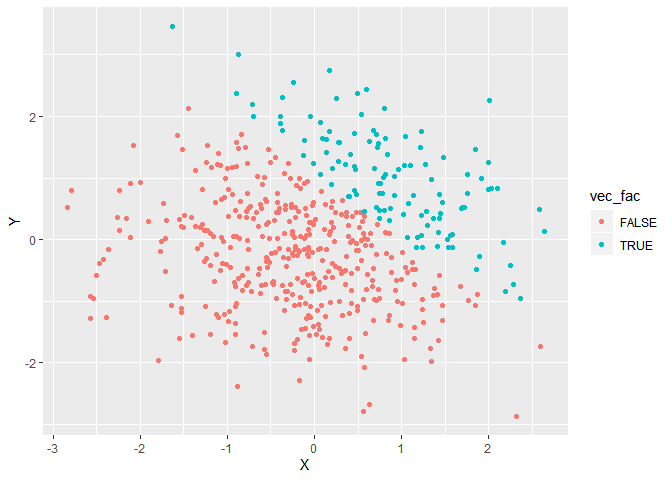
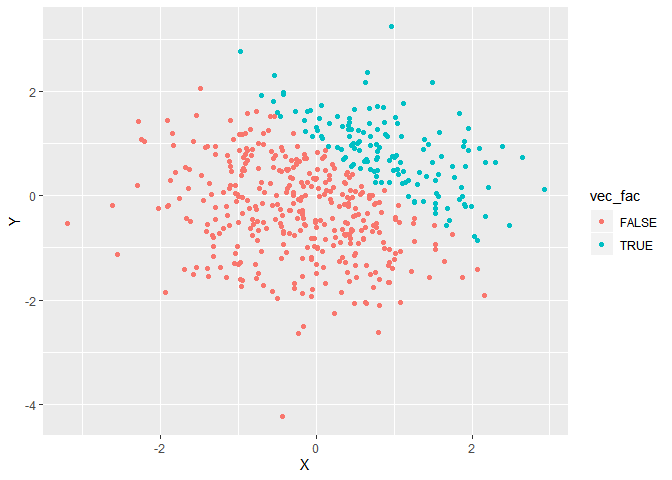
Do some change on the format of Rmd file

diff --git a/p8105_hw1_fj2269.md b/p8105_hw1_fj2269.md
@@ -41,7 +41,7 @@ mean(as.numeric(pull(frame_one, vec_factor)))
 *Factor vector and logical vector can be converted to numeric and
 calculate mean for ordinal variable and nominal variable in them is
 ranked. Character vector does not have level and does not have
-mean*
+mean.*
 
 ### Step 2: Transform the type of logical vector and multiple random sample
 
@@ -49,8 +49,8 @@ mean*
 as.numeric(pull(frame_one, norm_samp_pos))*pull(frame_one, norm_samp)
 ```
 
-    ## [1] 0.63744255 0.00000000 0.60290741 0.00000000 0.77976510 0.03655469
-    ## [7] 1.19197541 0.00000000
+    ## [1] 0.96800187 0.00000000 0.04791483 0.77831683 0.93766268 1.45256939
+    ## [7] 0.12690121 1.95893565
 
 ``` r
 as.factor(pull(frame_one, norm_samp_pos))*pull(frame_one, norm_samp)
@@ -62,11 +62,11 @@ as.factor(pull(frame_one, norm_samp_pos))*pull(frame_one, norm_samp)
 as.numeric(as.factor(pull(frame_one, norm_samp_pos)))*pull(frame_one, norm_samp)
 ```
 
-    ## [1]  1.27488511 -0.35980192  1.20581482 -1.49617022  1.55953021  0.07310938
-    ## [7]  2.38395083 -0.54787160
+    ## [1]  1.93600373 -0.31052719  0.09582966  1.55663366  1.87532536  2.90513878
+    ## [7]  0.25380243  3.91787130
 
 *Only When the two vector are both numeric vector can they multiple with
-each other*
+each other.*
 
 ## Question 2
 
@@ -82,10 +82,10 @@ frame_two = tibble(
 )
 ```
 
-*This frame have 500 row and 5 column* *The mean of x is -0.0122861, the
-median of x is -0.0388557, the standard deviation of x is 1.0186099*
+*This frame have 500 row and 5 column.* *The mean of x is 0.0779776, the
+median of x is 0.0995785, the standard deviation of x is 0.9955209.*
 *The proportion of cases for which x + y \> 1 is
-0.232*
+0.282.*
 
 ### Step 2: Make three scatterplot of x vs y
 
@@ -118,4 +118,4 @@ ggplot(frame_two,aes(x = x, y = y,color = vec_fac)) + geom_point(shape=19) +
 
 *The three scatterplot all have two kind of color, The color scale of
 first and third scatterplot is the same, red and blue. The color of plot
-in second graph is dark blue and light blue*
+in second graph is dark blue and light blue.*
